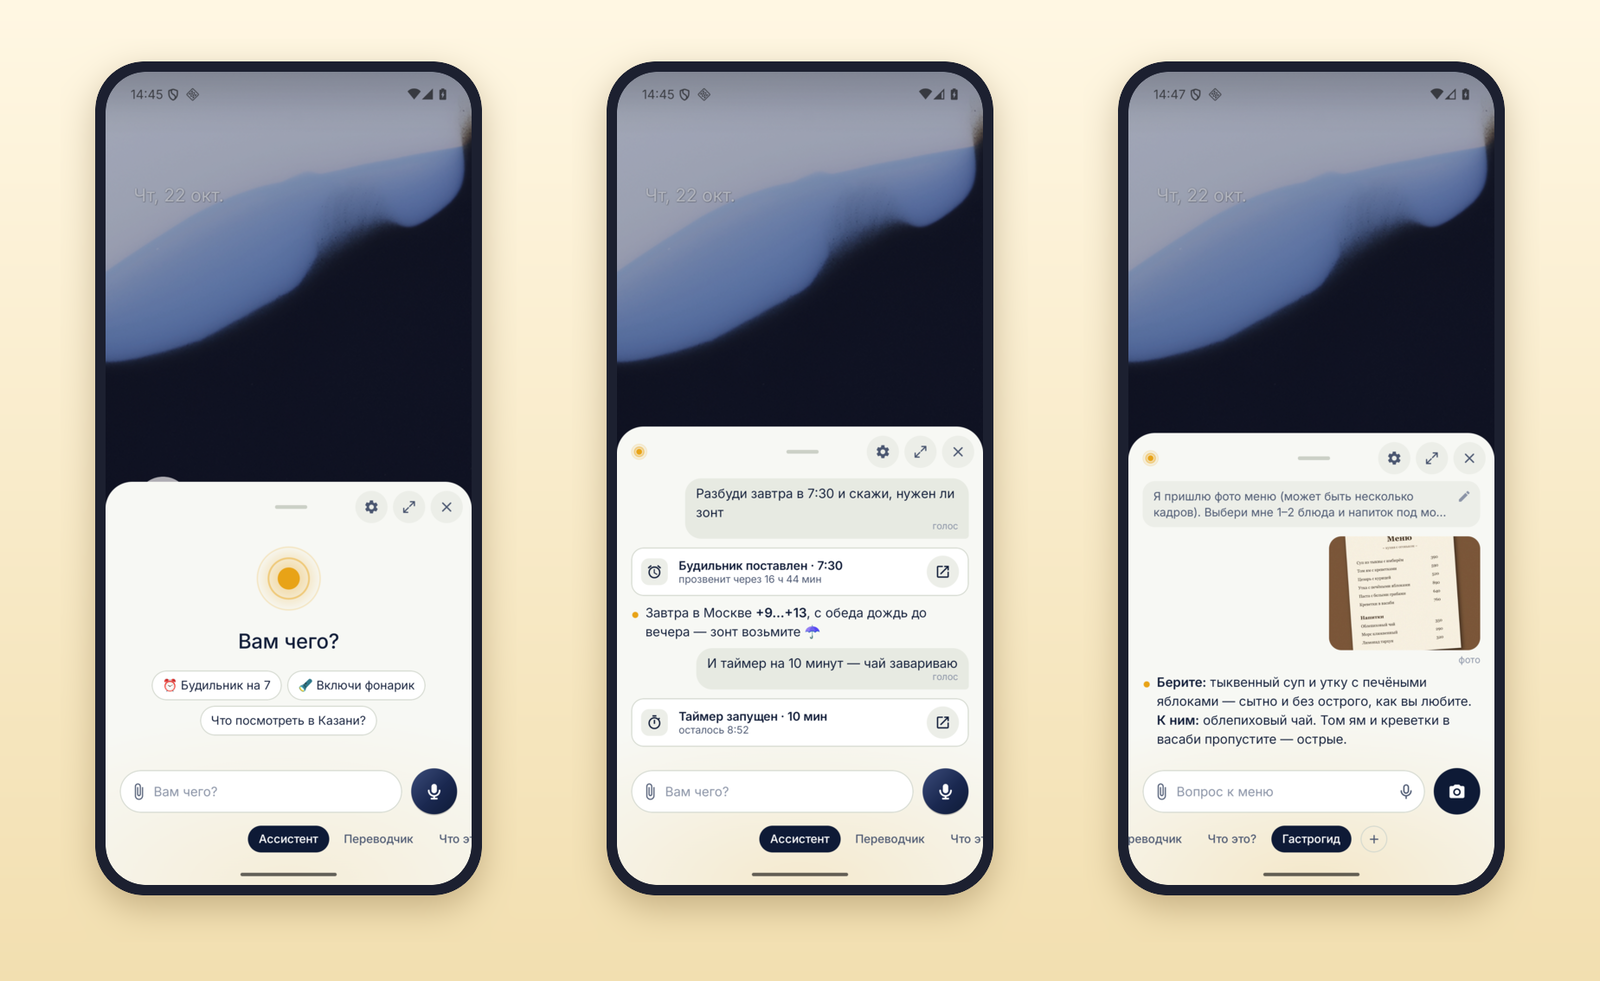
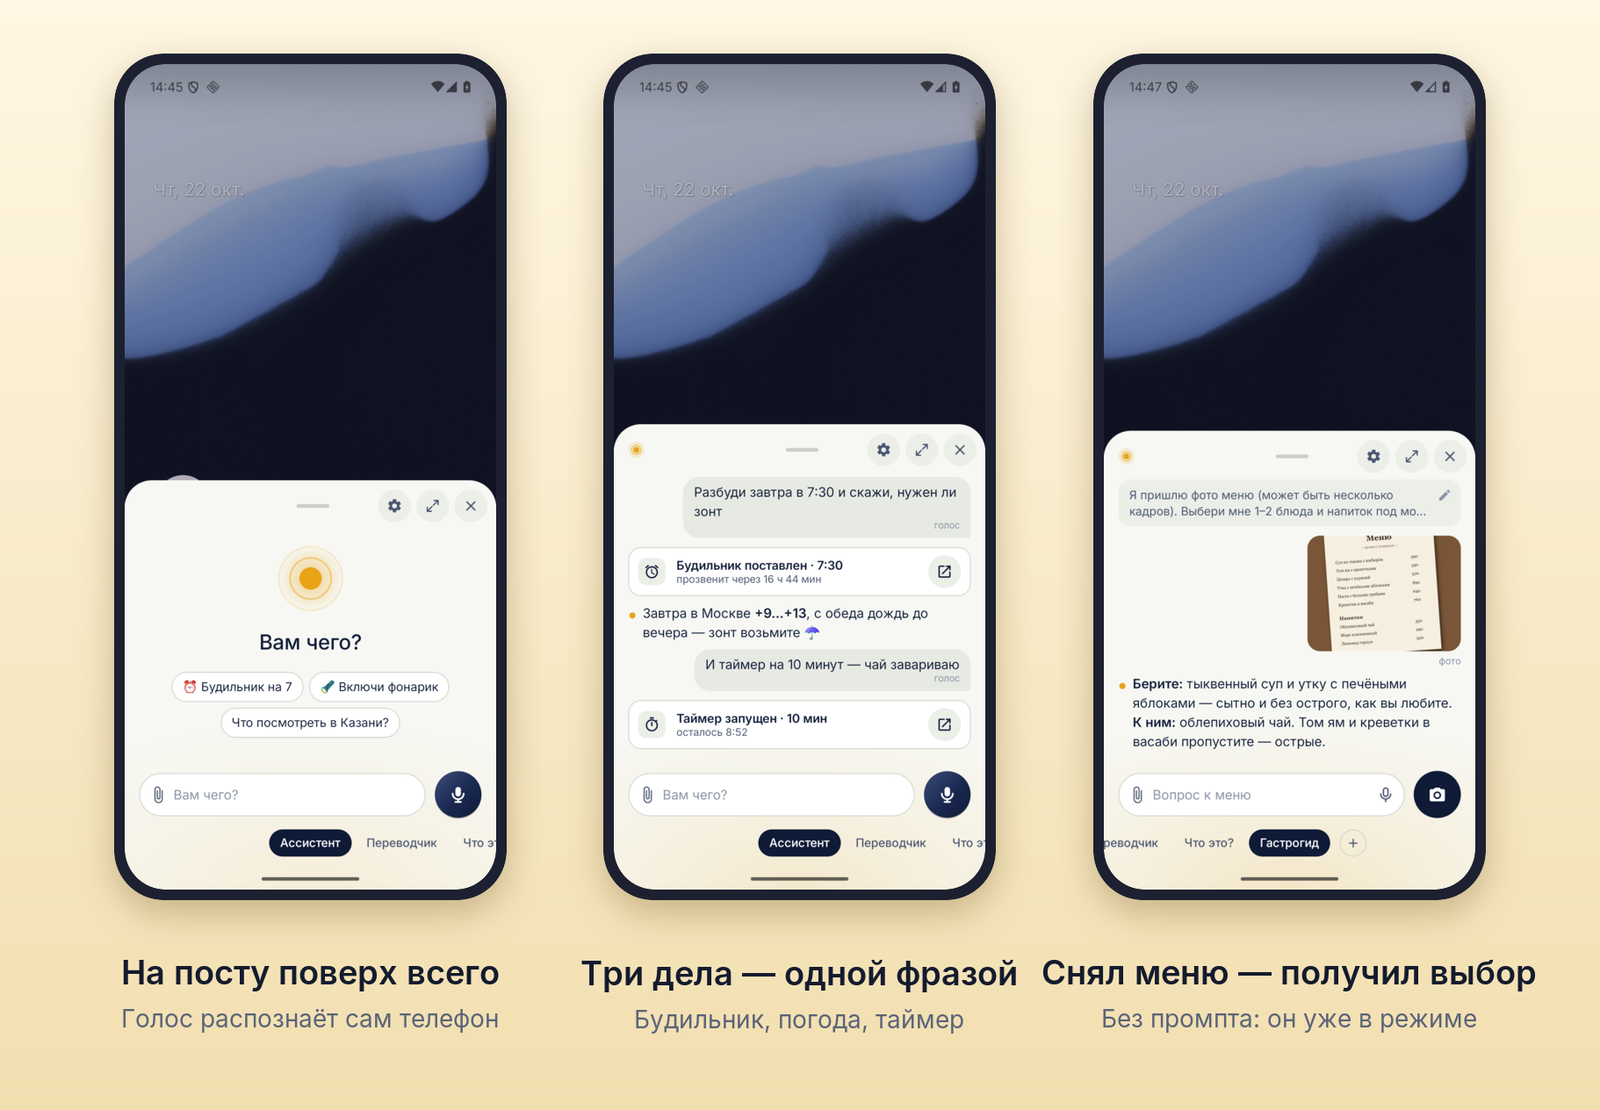
README: подписи к кадрам — «На посту поверх всего», «Три дела — одной фразой», «Снял меню — получил выбор»

diff --git a/README.md b/README.md
@@ -1,6 +1,6 @@
 # Вахтёр — ни секунды лишней
 
-![Вахтёр: лист поверх любого экрана — «Вам чего?», будильник, погода и таймер одним разговором, совет по фото меню](docs/images/hero.png)
+![На посту поверх всего — голос распознаёт сам телефон. Три дела — одной фразой: будильник, погода, таймер. Снял меню — получил выбор: без промпта, он уже в режиме](docs/images/hero.png)
 
 **Зажал кнопку — сказал — готово.** Голосовой ассистент для Android вместо системного помощника: без запуска приложений, без промптов, без рекламы. Мозг выбираете вы.
 
